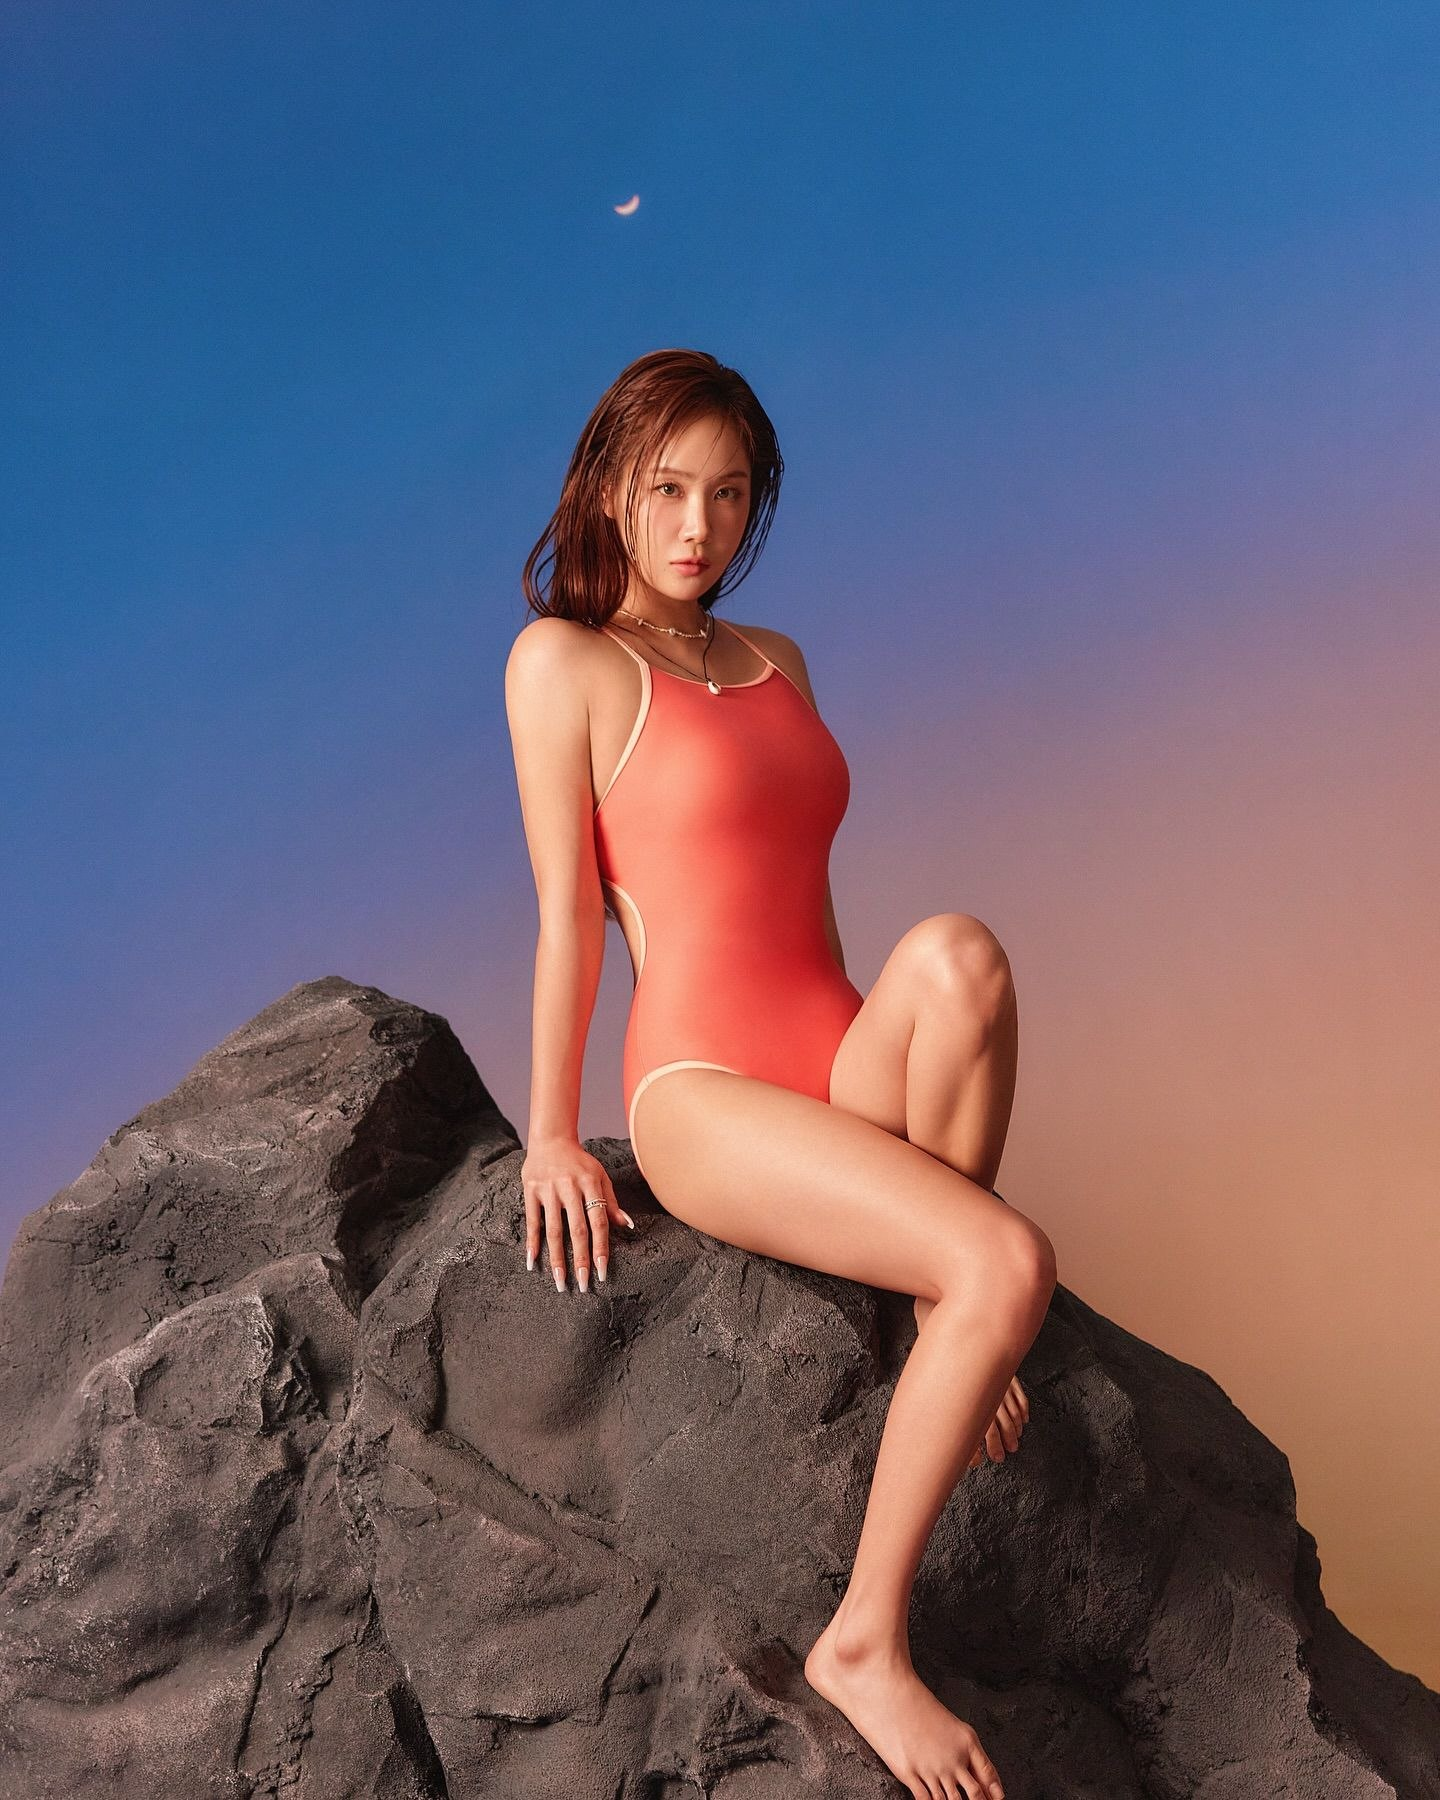
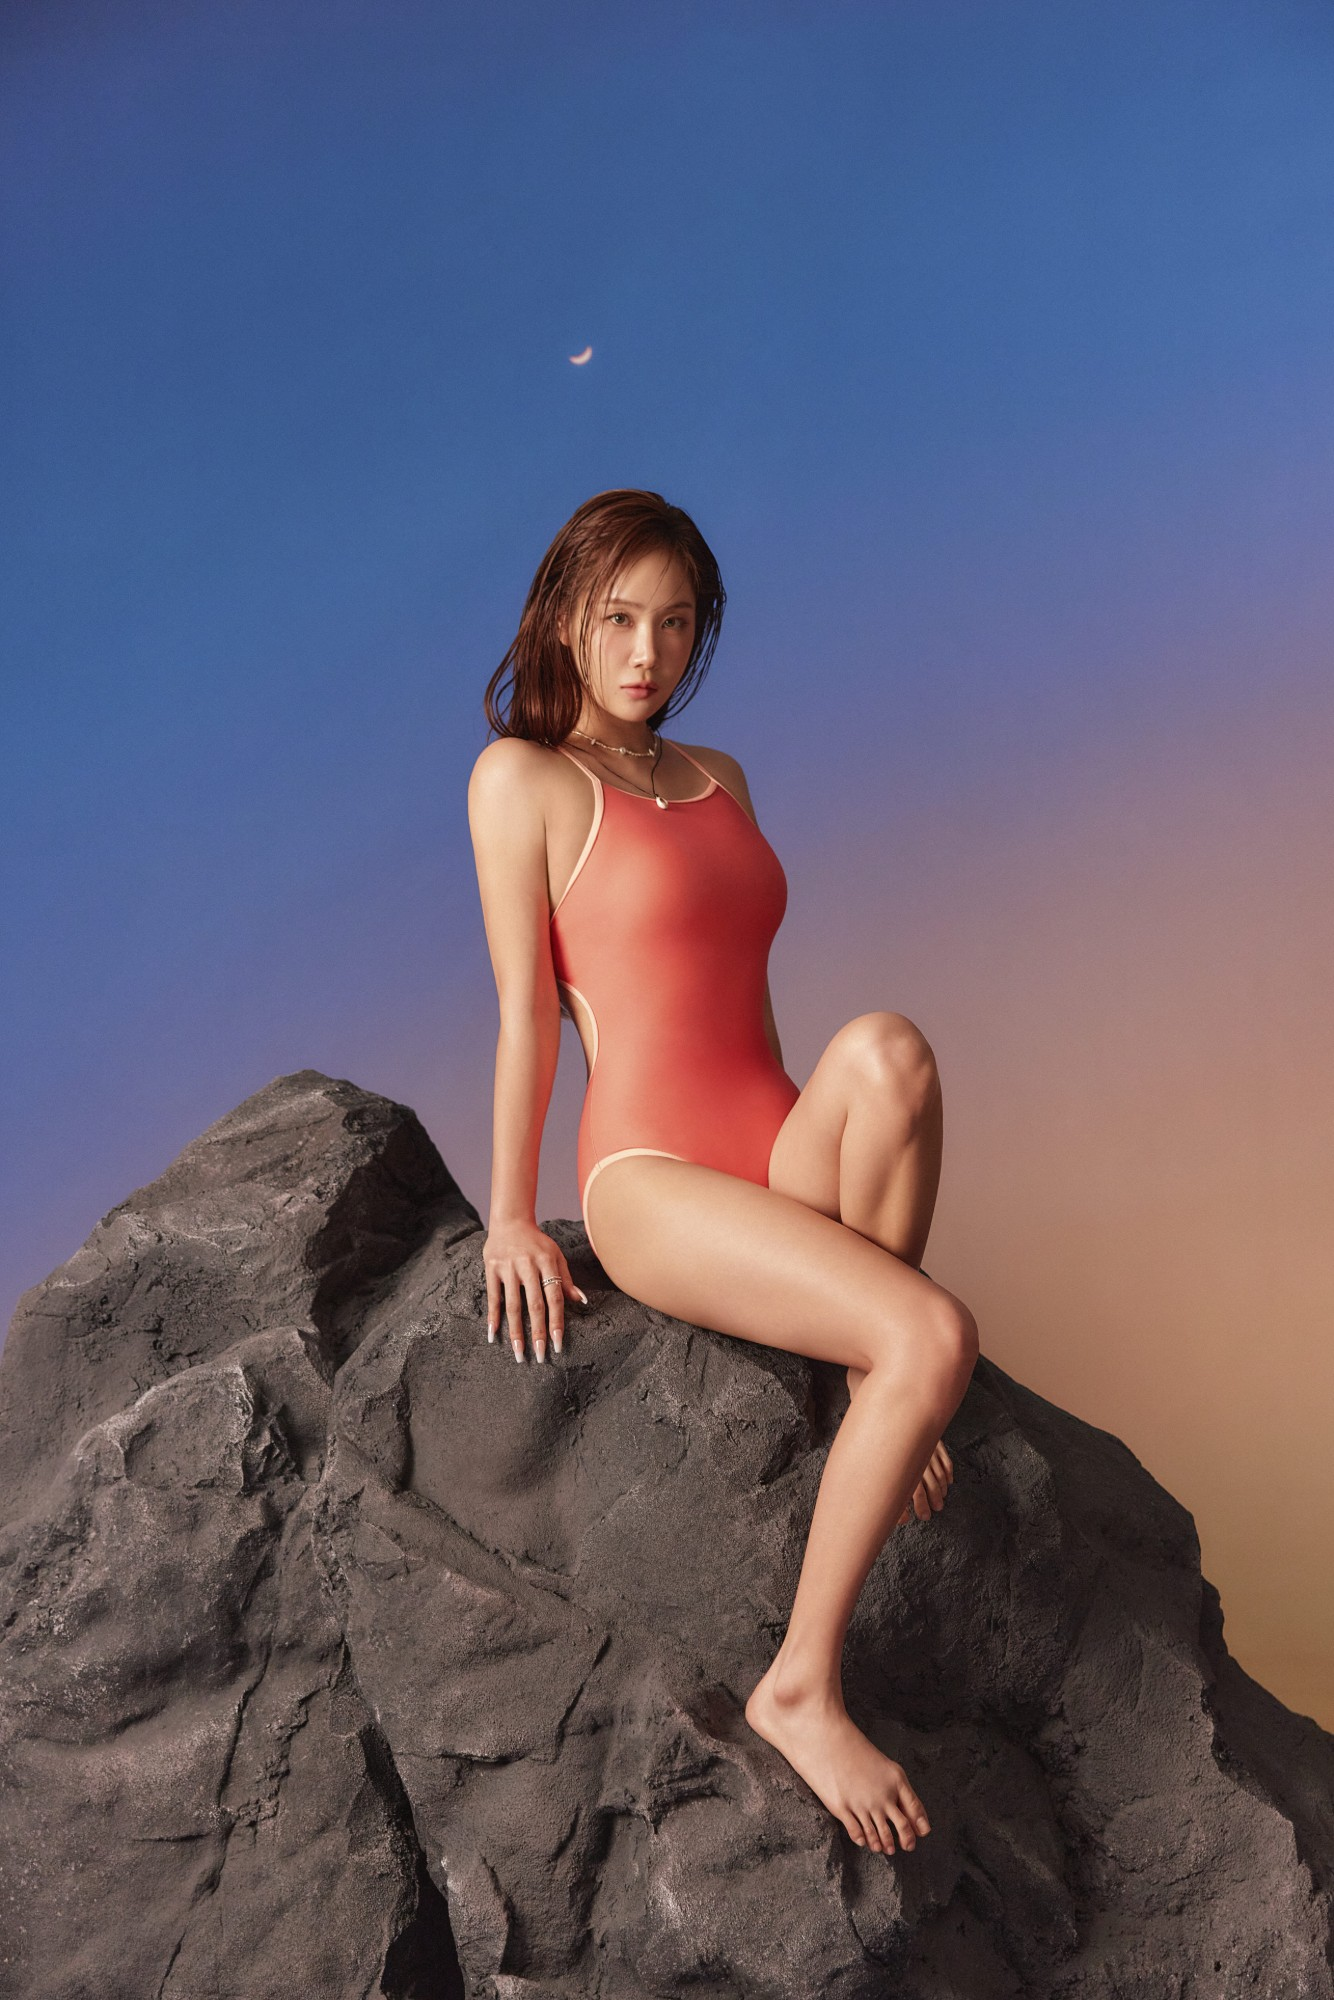
Renoma hero: original hi-res photo and raised mobile framing; Coralique mobile hero raised

diff --git a/style.css b/style.css
@@ -1117,3 +1117,17 @@ html.intro-on .intro{display:block;position:fixed;inset:0;z-index:1000;backgroun
   /* 얼굴이 뿌옇게 가려지지 않도록: 사진 맨 윗부분만 아주 살짝 자연스럽게 이어 붙이고, 머리는 그 아래에서 시작 */
   .hero--codegraphy .pj-hero__r img{object-position:50% 28%;-webkit-mask-image:linear-gradient(180deg,transparent 0,#000 5%);mask-image:linear-gradient(180deg,transparent 0,#000 5%)}
 }
+
+/* 모바일 레노마 표지: 모델(소유) 머리가 'Work' 줄 높이쯤에서 시작하도록 사진을 글자 뒤로 끌어올림 (고화질 원본 사용) */
+@media (max-width:800px){
+  .hero--renoma-swim .pj-hero__l{position:relative;z-index:2}
+  .hero--renoma-swim .pj-hero__r{margin-top:-194px;aspect-ratio:4/4.6}
+  .hero--renoma-swim .pj-hero__r img{object-position:50% 14%;-webkit-mask-image:linear-gradient(180deg,transparent 0,#000 12%);mask-image:linear-gradient(180deg,transparent 0,#000 12%)}
+}
+
+/* 모바일 코랄리크 표지: 모델 머리가 'Work' 줄 높이쯤에서 시작하도록 사진을 글자 뒤로 끌어올림 */
+@media (max-width:800px){
+  .hero--coralique .pj-hero__l{position:relative;z-index:2;background:transparent}
+  .hero--coralique .pj-hero__r{margin-top:-86px;aspect-ratio:4/4.6}
+  .hero--coralique .pj-hero__r img{-webkit-mask-image:linear-gradient(180deg,transparent 0,#000 12%);mask-image:linear-gradient(180deg,transparent 0,#000 12%)}
+}
